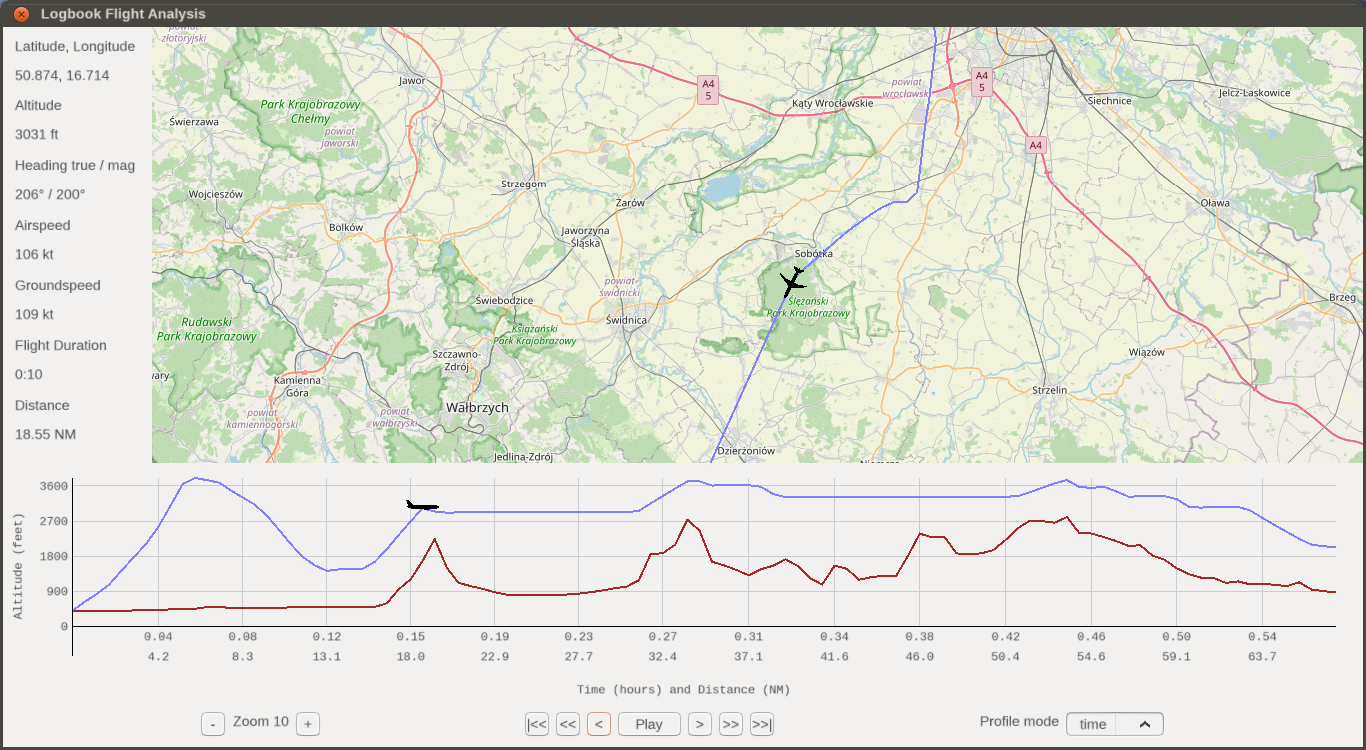
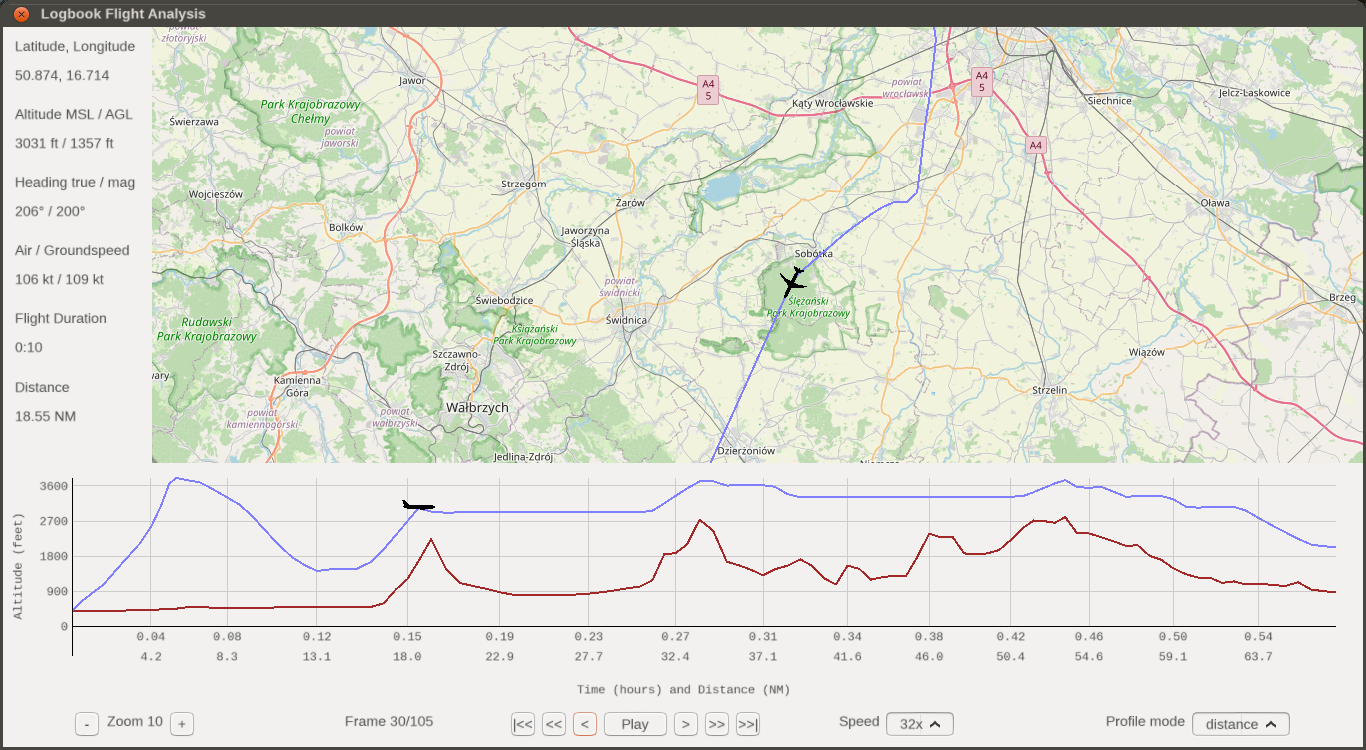
Update readme file

diff --git a/README.md b/README.md
@@ -9,7 +9,8 @@ This add-on automatically keeps a log of your flights, saving each flight to a f
 Installation is standard:
 
 1. Download "Logbook" add-on and unzip it.
-2. In Launcher go to "Add-ons" tab. Click "Add" button by "Add-on Module folders" section and select folder with unzipped "Logbook" add-on directory (or add command line option: `--addon=path`), and click "Fly!".
+
+2. In Launcher go to "Add-ons" tab. Click "Add" button by "Add-on Module folders" section and select folder with unzipped "Logbook" add-on directory (or add command line option: `--addon=/path/to/logbook`), and click "Fly!".
 
 ## How it's working?
 
@@ -33,7 +34,7 @@ on macOS:
 
 on Linux:
 
-`/home/{user name}/.fgfs/`.
+`/home/{user name}/.fgfs/`
 
 For CSV file, you can always open it and edit by any Spreadsheet program like LibreOffice Calc, MS Excel, etc. However please don't put the characters `,` in the cells, because the Logbook parser will recognize them as a column separator, which will cause errors in the operation of the add-on. It is safer to edit the log data through the GUI in the simulator.
 
@@ -44,10 +45,15 @@ The SQLite file can also be edited using special database software such as "DB B
 The following information is logged into the file:
 
 1. **Real date & time** – aircraft take-off date and time. This is the time taken from your OS, not the time in the simulator. This date and time is displayed in the GUI as default. In the settings you can choose what date and time you want to display in the Logbook window.
+
 2. **Sim UTC date & time** – aircraft take-off date and time as UTC time in simulator. This date and time is available only in version with SQLite (2024.1+).
+
 3. **Sim local date & time** – aircraft take-off date and time as local time in simulator. This date and time is available only in version with SQLite (2024.1+).
+
 4. **Aircraft** – the code name of the aircraft.
+
 5. **Variant** – the code name of the aircraft as its variant. Some aircraft are available in several variants, such as the default "Cessna 172P", which includes different variants like "Cessna 172P Float". If you select "Cessna 172P," you will see `c172p` in the **Aircraft** as well as **Variant** column. If you select the float variant ("Cessna 172P Float"), you will see `c172p` in the **Aircraft** column, but `c172p-float` in the **Variant** column. This way you have the main group of aircraft in the **Aircraft** column, and its variants in the **Variant** column. This will allow you to extract **Totals** statistics for a general group of aircraft no matter what variant (filtering by **Aircraft**), as well as more precisely for a specific variant of a given aircraft (filtering by **Variant**).
+
 6. **Type** – aircraft type as one of following values:
     * "heli" (helicopter),
     * "balloon" (also airship),
@@ -61,22 +67,39 @@ The following information is logged into the file:
     * "ga-single" (small piston single-engine general aviation),
     * "ga-multi" (small piston multi-engine general aviation),
     * "others" (undefined or not recognized).
+
 7. **Callsign** – your callsign set for multiplayer.
+
 8. **From** – the ICAO code of the airport from which you have taken off. If you are starting immediately in the air, this field will remain blank.
+
 9. **To** – the ICAO code of the airport where you landed. If you did not land (e.g. by closing FG in flight) or by landing at an adventurous location, this field will remain blank.
+
 10. **Landing** – if you landed anywhere, a 1 will be entered here. If the flight ended without landing or the add-on was unable to detect a valid landing, this field will be left blank.
+
 11. **Crash** – if the add-on recognizes an aircraft crash, a 1 will be entered here, otherwise this field will be left blank.
+
 12. **Day** – the number of hours spent flying during the day.
+
 13. **Night** – number of hours spent flying during the night.
+
 14. **Instrument** – the number of hours flown during the IMC (Instrument Meteorological Conditions).
+
 15. **Multiplayer** – the number of flight hours when connecting to a multiplayer server.
+
 16. **Swift** – number of flight hours when connecting to swift.
+
 17. **Duration** – total duration of the flight in hours, as the sum of **Day** and **Night**. The **Instrument** is not added up here, as it is simply counted separately, regardless of whether it was day or night. **Duration** is calculated in real time, so if you speed up or slow down the simulation time, it will not be affected.
+
 18. **Distance** – total distance flown from take-off to landing, in nautical miles.
+
 19. **Fuel** – total amount of fuel burned in flight, in U.S. gallons.
+
 20. **Max Alt** – maximum altitude, in feet, reached during flight.
+
 21. **Max groundspeed** – maximum groundspeed, in knots, reached during flight.
+
 22. **Max Mach** – maximum speed in Mach number reached during flight.
+
 23. **Note** – notes, by default the full name of the aircraft. This is a good place to enter your own notes as well.
 
 ## Viewing the logbook
@@ -85,7 +108,7 @@ The add-on also provides the ability to view the entire flight logbook from the 
 
 ![alt main-window](docs/img/main-window.png "Logbook main window")
 
-The last row signed "Totals", contains a summary, not only of the visible entries on a given page, but of the entire logbook. The same "Totals" row is visible on every page. The exception for totals is the `Max Alt` column, in which you don't have the sum of all altitudes, but the highest one.
+The last row signed "Totals", contains a summary, not only of the visible entries on a given page, but of the entire logbook. The same "Totals" row is visible on every page. The exception for totals is the `Max Alt`, `Max GS` and `Max Mach` columns, in which you don't have the sum of all values, but the highest one.
 
 At the very bottom there is a row of buttons, mainly for moving through the log pages:
 
@@ -96,20 +119,6 @@ At the very bottom there is a row of buttons, mainly for moving through the log 
 
 In the middle there is text information in the format `{on which page you are} / {number of all pages} (number of entries in the log)`. On the right is the `dark`/`light` button to switch between window styles. The `≡` button opens a windows with settings, and the last `?` button opens a window with help (the same as from the "Logbook" -> "Help" menu).
 
-Each log entry can be hovered over and clicked. Then an additional window will open presenting the details of the given entry.
-
-![alt details](docs/img/details.png "Details window")
-
-In general, you have the same information here as in the main window, except:
-
-1. you can see three dates and times of aircraft takeoff:
-    * real date & time from your OS,
-    * UTC date & time from the simulator,
-    * local date & time from the simulator;
-1. ICAO airport codes include their names in parentheses;
-2. with numerical data, you are given the units in which these values are presented with conversions to other units;
-3. at the very bottom you have an additional `Note` field, which is not displayed in the main window, due to the possibility of placing any length of text here.
-
 ### Data filtering
 
 The addon allows you to filter some columns in the main log window. At the moment you can filter by the "Date" (as a year), "Aircraft", "Variant", "Type", "Callsign", "From", "To", "Landing" and "Crash" columns. To use filtering, hover the mouse cursor over a column name (it will be highlighted) and click it. A new window will appear with a choice of values.
@@ -119,6 +128,25 @@ The addon allows you to filter some columns in the main log window. At the momen
 For filtering on the "Aircraft" column, these will be the IDs of aircraft you have flown before. For filtering by the "Type" column, these will be the names of aircraft types, etc. Each window with filters also has the "All" position, which means that the filter will be turned off and all items will be shown. When the filter is enabled, an asterisk (`*`) sign will be shown next to the filtered column to warn that the filter has been used.
 
 After using the filter, the "Totals" row will also be updated with the filtered data. In this way, you can see statistics for a specific aircraft or types of aircraft.
+
+### Details of entry logbook
+
+Each log entry in the main window can be hovered over and clicked. Then an additional window will open presenting the details of the given entry.
+
+![alt details](docs/img/details.png "Details window")
+
+In general, you have the same information here as in the main window, except:
+
+1. you can see three dates and times of aircraft takeoff:
+    * real date & time from your OS,
+    * UTC date & time from the simulator,
+    * local date & time from the simulator;
+
+2. ICAO airport codes include their names in parentheses;
+
+3. with numerical data, you are given the units in which these values are presented with conversions to other units;
+
+4. at the very bottom you have an additional `Note` field, which is not displayed in the main window, due to the possibility of placing any length of text here.
 
 ### Editing and deleting data
 
@@ -138,30 +166,53 @@ The window is divided into two parts, the upper one with the map (lateral naviga
 
 Flight analysis can also be opened from the "Logbook" -> "Current Flight Analysis" menu. The difference is that this analysis always comes from your current session. Apart from that, there are no differences in operation.
 
-At the bottom, we have a row of buttons for zooming the map and for moving through the points of the path traveled. If the path does not fit on the map, you must zoom out of the map view or move along the path using the `<` and `>` buttons. The currently selected point is marked with the airplane icon both on the map and the profile. By default, it is the starting point. Now, using the arrow buttons, you can move through the points, while seeing an information on the left for each of them in the form:
-
-* geographical coordinates of the point
-* altitude at which the aircraft was located
-* true and magnetic heading that the aircraft was flying at the given point
-* airspeed in knots that the aircraft was flying at the given point
-* groundspeed in knots that the aircraft was flying at the given point
-* flight time at the given point
-* distance traveled at the given point
-
-Buttons:
-
-* `<` and `>` – move back or forward 1 point
-* `<<` and `>>` – move back or forward 10 points
-* `|<<` and `>>|` – jump to start or end point
-* `Play`/`Stop` – start/stop flight animation of airplane icon.
-
-To change airplane icon position, you can also click on the map near to the fly path or click on the profile diagram.
-
-At the bottom right there is also an option to change the profile drawing mode. In FlightGear version 2024.1, this is a checkbox with the options "time" and "distance". This option defines whether the X-axis should be drawn based on time or distance traveled. When based on time, the graph will be evenly and linearly distributed, even when the aircraft is stationary or hovering because time is always moving forward. So the graph won't show where the flight was faster or slower, but you will avoid overlapping points. When based on distance, the points will be drawn close to each other or overlapping when the aircraft is stationary or flying slowly, but they will be more spread out when flying fast, making it possible to recognize places where the flight was performed at higher speeds and where at lower ones. In FlightGear versions older than 2024, this option is presented as a check box. When you check it, you will enable "distance" mode.
+Flight analysis from the logbook will only be available for flights made in FlightGear 2024.1 and later. Current session analysis is available from FlightGear 2020.
 
 The flight analysis window is resizable, but remember that if it is too small it will not be able to draw the map or vertical profile correctly.
 
-Flight analysis from the logbook will only be available for flights made in FlightGear 2024.1 and later. Current session analysis is available from FlightGear 2020.
+At the bottom we have a number of elements to control the flight analysis:
+
+#### Zoom
+
+You can change the map zoom using the `-`/`+` buttons. You can also do this using the mouse wheel when the cursor is over the map. The zoom range is from 3 to 14. The current zoom level is indicated by the text between the buttons. If the flight path does not fit on the map, you must zoom out of the map view or move along the path by click on the path or by using the `<` and `>` buttons to see the rest of the path.
+
+#### Frame
+
+Information about where the aircraft icon is currently located on the flight path, among all recorded flight path points. The currently selected point is marked with the airplane icon both on the map and the profile. By default, the aircraft icon is positioned at the first point, i.e. at the beginning of the flight.
+
+#### Player
+
+Next we have a series of buttons to control the animation and movement of the aircraft icon along the recorded flight path points:
+
+* `|<<` and `>>|` – jump to start or end point.
+* `<<` and `>>` – move back or forward 10 points.
+* `<` and `>` – move back or forward 1 point.
+* `Play`/`Stop` – start/stop flight animation of airplane icon.
+
+To change airplane icon position, you can also click on the map near to the fly path or click on the profile graph. Then the airplane icon will be moved to the closest point to the click location.
+
+#### Speed
+
+With the "Speed" option you can change the animation speed of the airplane icon movement, where `1x` is the real-time flight speed, up to a maximum of `32x` faster. This option is only available from FlightGear version 2024.1. Older versions use a fixed animation speed of `16x`.
+
+#### Profile mode
+
+At the bottom right there is also an option to change the profile drawing mode. In FlightGear version 2024.1, this is a combobox with the options "distance" and "time". This option defines whether the X-axis should be drawn based on time or distance traveled.
+
+When based on time, the graph will be evenly and linearly distributed, even when the aircraft is stationary or hovering because time is always moving forward. So the graph won't show where the flight was faster or slower, but you will avoid overlapping points.
+
+When based on distance, the points will be drawn close to each other or overlapping when the aircraft is stationary or flying slowly, but they will be more spread out when flying fast, making it possible to recognize places where the flight was performed at higher speeds and where at lower ones. In FlightGear versions older than 2024, this option is presented as a check box. When you check it, you will enable "time" mode (default is "distance" mode).
+
+#### Information about each point
+
+To the left of the map, there is recorded information about the given path point where the airplane icon is currently located, and these are:
+
+* geographical coordinates of the point,
+* altitude MSL and AGL at which the aircraft was located,
+* true and magnetic heading that the aircraft was flying at the given point,
+* airspeed and groundspeed in knots that the aircraft was flying at the given point,
+* flight time at the given point,
+* distance traveled at the given point.
 
 ### Settings
 
@@ -172,34 +223,43 @@ When you click on the `≡` button in the Logbook view, the settings window will
 Here you can configure the following options:
 
 1. `Date and time displayed in the Logbook view` – Logbook window shows only one `Date` and `Time` item, but triple dates and times are logged, so here you can choose which one you want to display in Logbook window, by default it is real time, taken from your operating system. These options are only available for FG >= 2024.1.
+
 2. `Columns to display in the Logbook view` – here you can specify which columns are to be displayed in the Logbook window. The fewer columns are displayed, the faster the Logbook window will be drawn. Columns such as `Date`, `Time` and `Aircraft` are always displayed, the `Note` column will never be displayed and this cannot be changed. These options are only available for FG >= 2024.1.
+
 3. `Click sound` – by default, a sound is played when you click on various buttons, you can turn this sound off here.
+
 4. `Items per page` – here you can specify how many rows of logs should be displayed in the Logbook view, the default is 20. The lower the number, the faster the Logbook window will be drawn.
+
 4. `Optimize database` – this button will defragment the database file (sqlite), which will speed up database operations and reduce its size on the disk. These option is only available for FG >= 2024.1.
 
 #### Advance settings
 
 When you save your settings, this add-on will save them to the `settings.xml` file in `$FG_HOME/Export/Addons/org.flightgear.addons.logbook` location. By editing this file you can configure more options:
 
-1. `tracker-interval-sec` – integer as the number of seconds every which data will be dumped to the log (default 5 seconds). The smaller the number, the more data you will receive and the flight analysis will be more accurate, therefore the database file will take up more space and the processor may be more loaded. If you are making a long flight on an airliner, a value of 20 seconds should be satisfactory. If you want to perform aerobatics and want to analyze your flight in detail, you can set this value even to 1 second. A value less than 1 second (this is the default) means automatic mode, i.e. the add-on will dynamically adjust the time interval seconds. By default, it will be 15 seconds, but during turns, i.e. bank greater than 5 degrees and at an altitude of less than 2000 ft above the terrain, the interval will change to 5 seconds. Thanks to this, flight close to the terrain will be recorded more accurately and turns on the map will be more rounded.
-2. `real-time-duration` – if true then time spent in flight is always real time, i.e. speeding up or slowing down the simulation time will not affect Duration (default true). So if your flight would take 2 hours but you accelerate the time in the simulator twice, then you will fly in 1 real hour and the log will record 1 hour of flight. On the other hand, if you set this option to false, then in this case 2 hours would be logged, according to the simulator time.
+1. `tracker-interval-sec` – integer as the number of seconds every which data will be dumped for flight analysis. The smaller the number, the more data you will receive and the flight analysis will be more accurate, therefore the database file will take up more space and the processor may be a little more loaded. If you are making a long flight on an airliner, a value of 20 seconds should be satisfactory. If you want to perform aerobatics and want to analyze your flight in detail, you can set this value even to 1 second. A value less than 1 second (this is the default) means automatic mode, i.e. the add-on will dynamically adjust the time interval seconds. By default, it will be 15 seconds, but during turns, i.e. bank greater than 5 degrees and at an altitude of less than 2000 ft above ground level, the interval will change to 5 seconds. Thanks to this, flight close to the terrain will be recorded more accurately and turns on the map will be more rounded.
+
+2. `real-time-duration` – if true then time spent in flight is always real time, i.e. speeding up or slowing down the simulation time will not affect Duration (default true). So if your flight would take 2 hours but you accelerate the time in the simulator 2x, then you will fly in 1 real hour and the log will record 1 hour of flight. On the other hand, if you set this option to false, then in this case 2 hours would be logged, according to the simulator time.
 
 and settings available from GUI:
 
 3. `dark-style` – if true then dark theme is using (default false).
+
 4. `sound-enabled` – if true then click sound will be playing (default true).
+
 5. `date-time-display` – which time will be displaying in main Logbook table. Possible values:
     * `real` – your real time, from your OS,
     * `sim-utc` – UTC time in simulator,
     * `sim-local` – local time in simulator.
+
 6. `log-items-per-page` – integer number as how many rows of logs should be displayed in the Logbook view (default 20).
+
 7. `columns-visible` – which column should be visible in main Logbook view.
 
 NOTE. Before editing the `settings.xml` file, close the simulator.
 
 ## Backup (for FG 2020.3 and older)
 
-Before each saving of a single change, the add-on creates a copy of the original CSV file, to which it appends the `.bak` extension at the end. So, if something goes wrong while editing the data and the original file is corrupted, you can always recover it by removing the `.bak` from the copy name. Remember, you only have a copy of one recent file operation.
+If you edit logbook entries via GUI, then before each saving of a single change, the add-on creates a copy of the original CSV file, to which it appends the `.bak` extension at the end. So, if something goes wrong while editing the data and the original file is corrupted, you can always recover it by removing the `.bak` suffix from the copy name. Remember that you only have a copy of the last one file operation.
 
 For the newer version (2024.1 and later) based on the SQLite database, the backup copy is unnecessary as the database engine takes care of the correctness of the record.
 
@@ -220,6 +280,7 @@ For FlightGear 2024.1 and newer, the add-on provides an "Export to CSV" menu ite
 This option will create two CSV files:
 
 1. the first in the format `export-YYYY-MM-DD-HH-mm-SS-logbook.csv` (suffix "logbook") for the Logbook table,
+
 2. the second `export-YYYY-MM-DD-HH-mm-SS-tracker.csv` (suffix "tracker") for the flight analysis table.
 
 The relationship between the files is that the "tracker" CSV file contains a `Logbook ID` column that contains the `ID` column identifiers from the "logbook" CSV file.
@@ -229,17 +290,29 @@ These files will be saved in the same directory as the SQLite file. The timestam
 ## NOTE
 
 1. If you properly close the simulator during the flight ("File" -> "Exit"), the current flight status will be saved to the logbook (without landing information, of course).
+
 2. If the simulator will be closed incorrectly during flight, e.g. via the [X] button on the window bar, or a crash occurs, the logbook data should be saved in the `recovery-v5.csv` file. The data in the `recovery-v5.csv` file will be automatically transferred to the `logbook.csv` file when the simulator is restarted. For version 2024.1 and later, the data is always, cyclically written directly to the SQLite database, so the `recovery-v5.csv` file is not used. Data for recovery mode is saved every 30 or 20 seconds.
+
 3. To count as a landing, the aircraft must rest on all wheels and maintain this state for at least 3 seconds. In this way, an ugly bounce off the runway will not be counted as a landing by the add-on.
+
 4. If you start a simulation in the air, the add-on will recognize this and start logging without waiting for take-off.
+
 5. If you start a simulation in the air, the add-on is unable to recognize the landing gear, so the landing detection pass will extend to 6 seconds (giving an extra 3 seconds to make sure the aircraft is resting on all wheels).
+
 6. Helicopters should also be supported, although I have not tested all of them.
+
 7. The add-on supports JSBSim-based watercraft, although I have not tested all of them.
+
 8. The add-on supports the Space Shuttle.
+
 9. Flights with UFO will not be logged.
+
 10. Pausing the simulation or turning on the replay mode stops the flight statistics from being added to the log.
+
 11. As for fuel burn, the add-on does not take in-flight refueling into account. If you change the amount of fuel during the flight, the result in the **Fuel** column will be incorrect. So try to avoid it and refuel the aircraft before the flight.
+
 12. Supported FG versions from 2020.1.
+
 13. The minimum resolution for using the GUI is 1366x768.
 
 ## Landing gear hints
